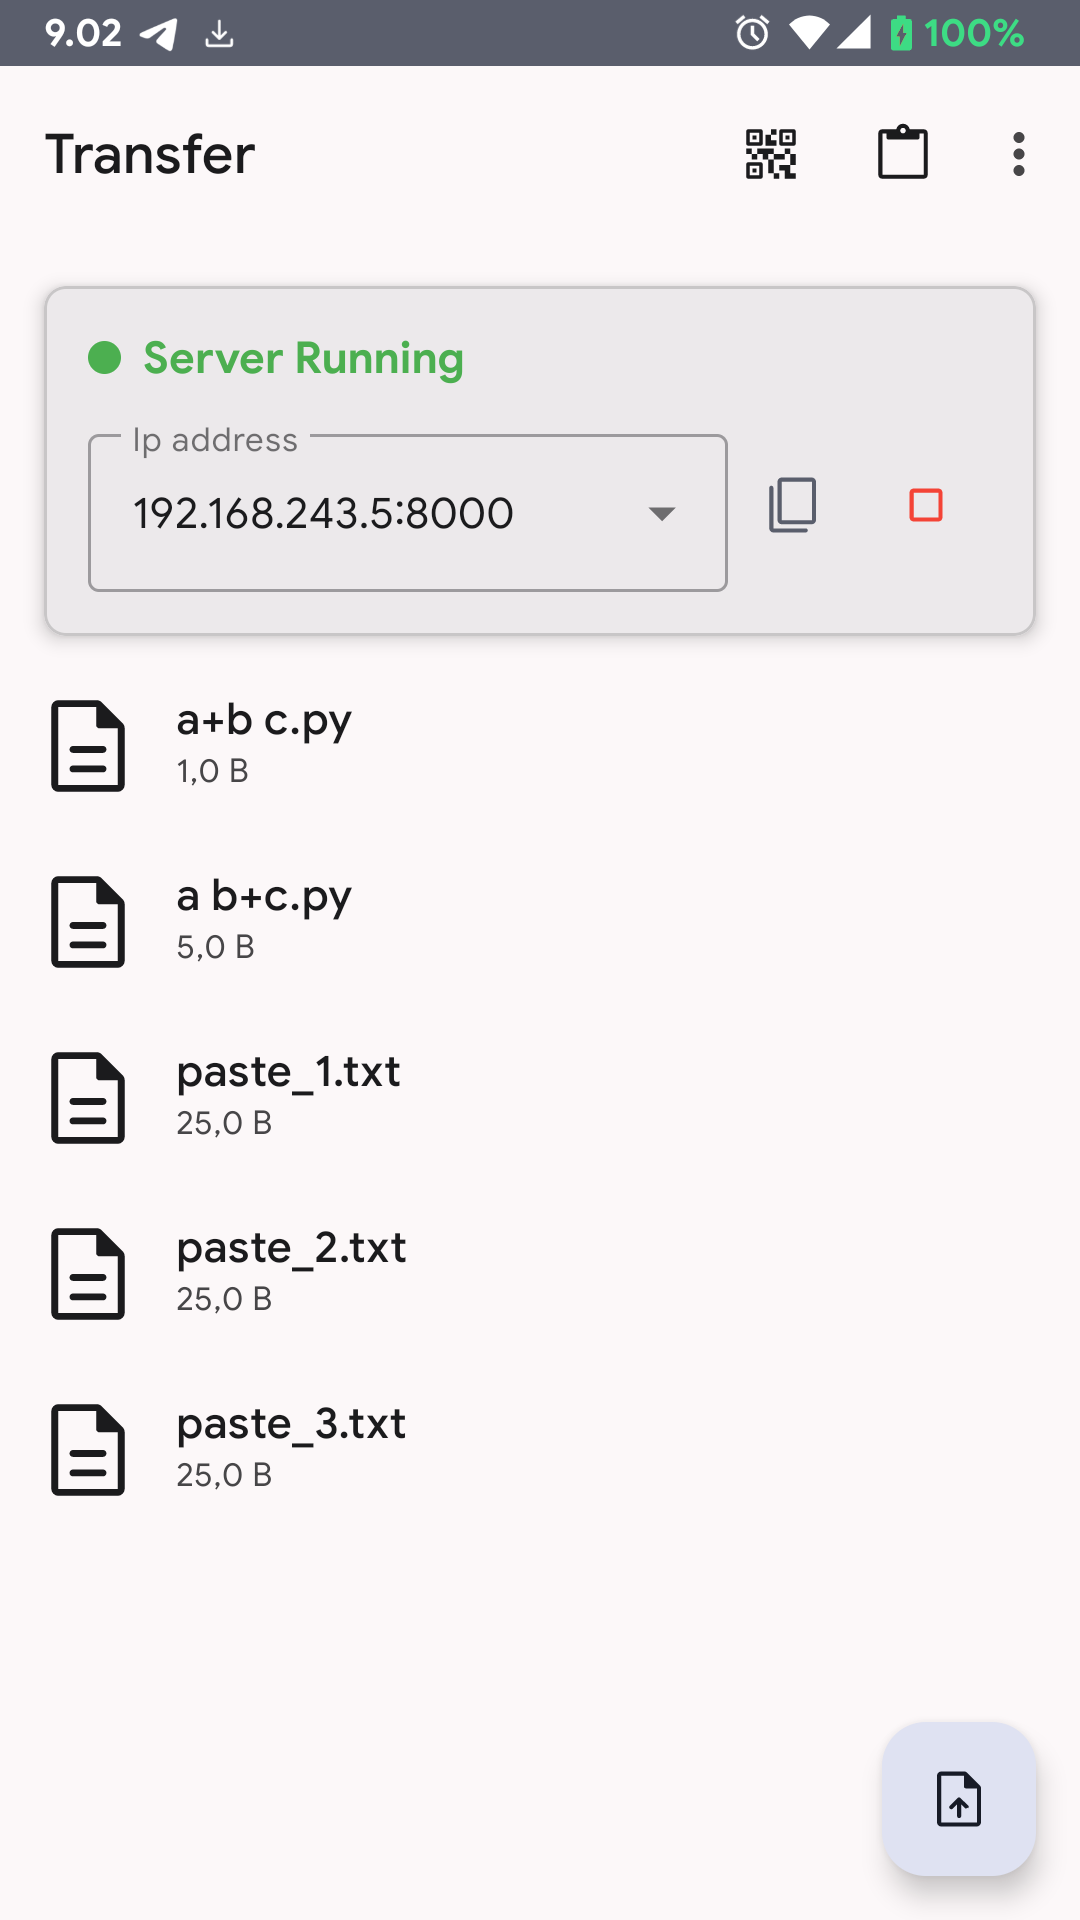
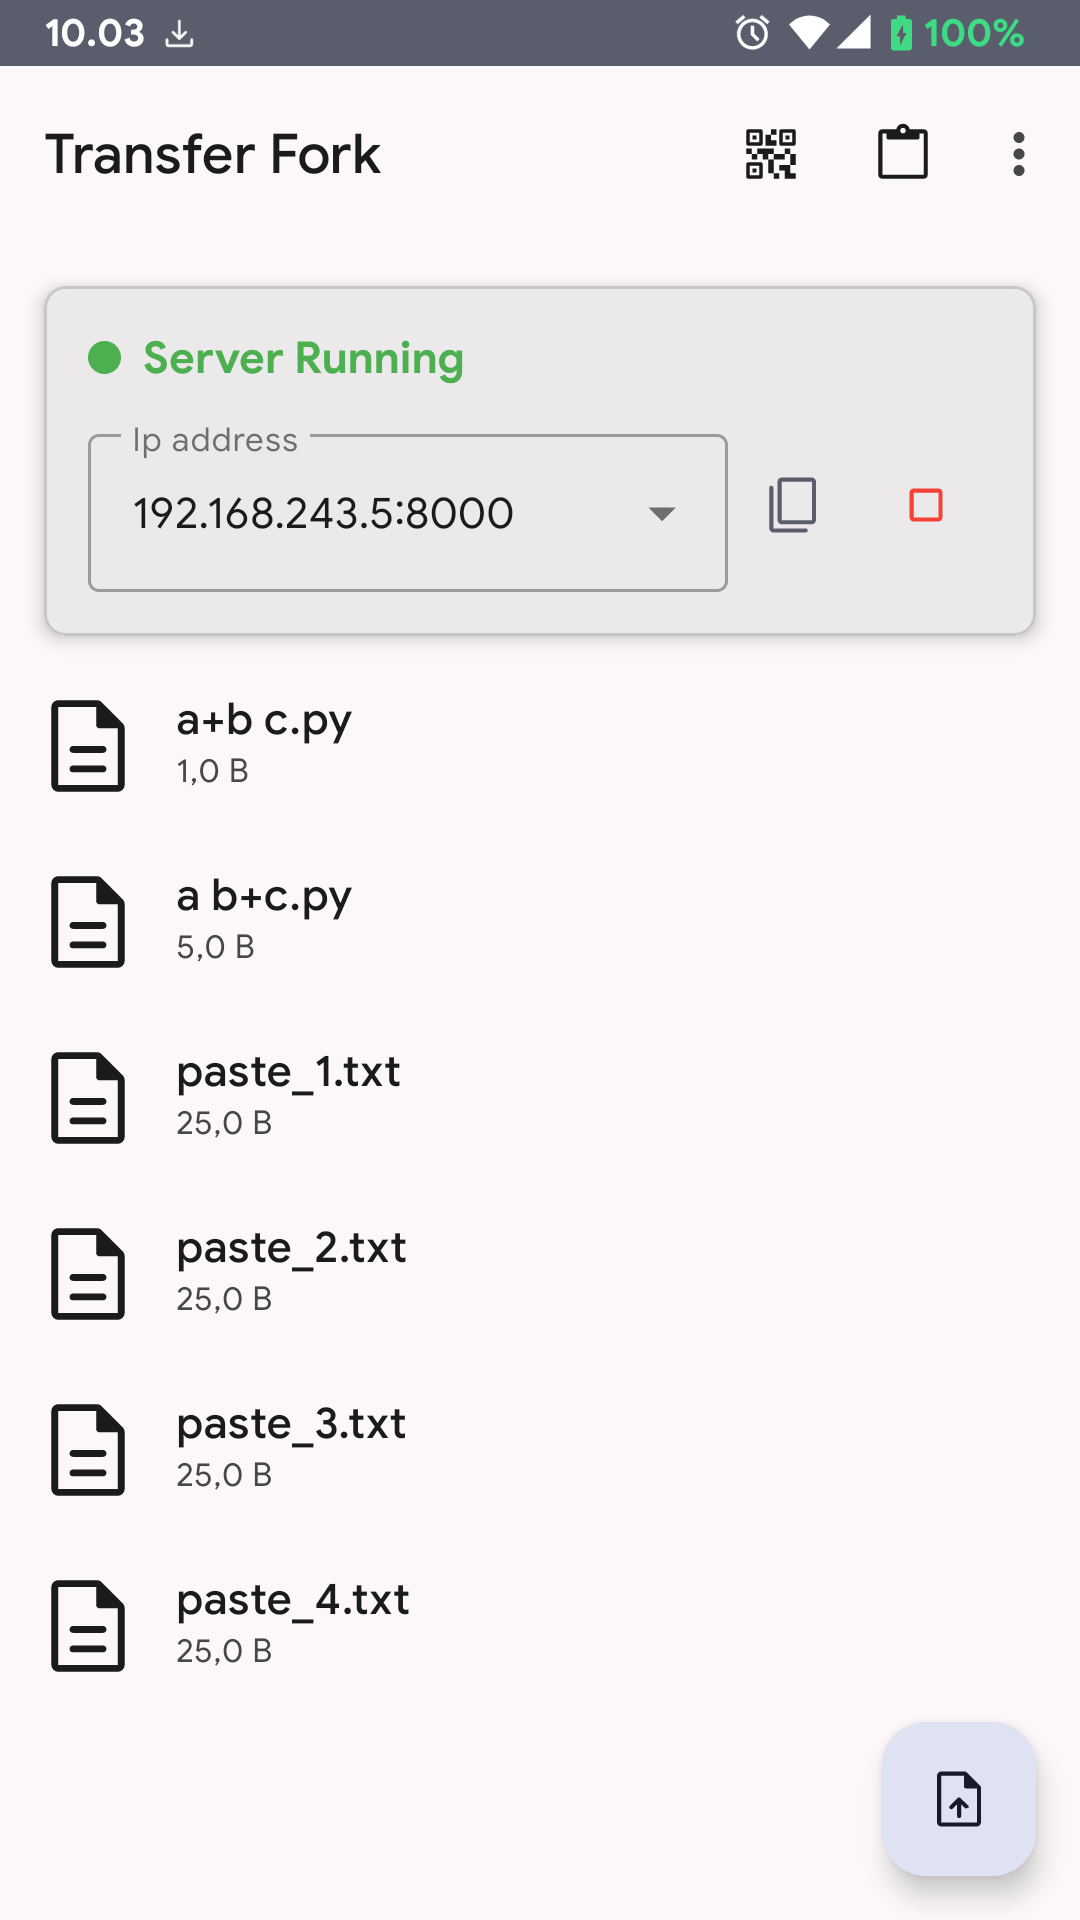
ui: rename displayed app to Transfer Fork
- launcher label, setup welcome, home toolbar and About now read
  'Transfer Fork'; About description notes it is a personal fork
- README heading and screenshots refreshed from this build

diff --git a/README.md b/README.md
@@ -1,4 +1,4 @@
-# Transfer
+# Transfer Fork
 
 > **Personal learning fork** of [MatanH/Transfer](https://github.com/MatanH/Transfer).
 >
